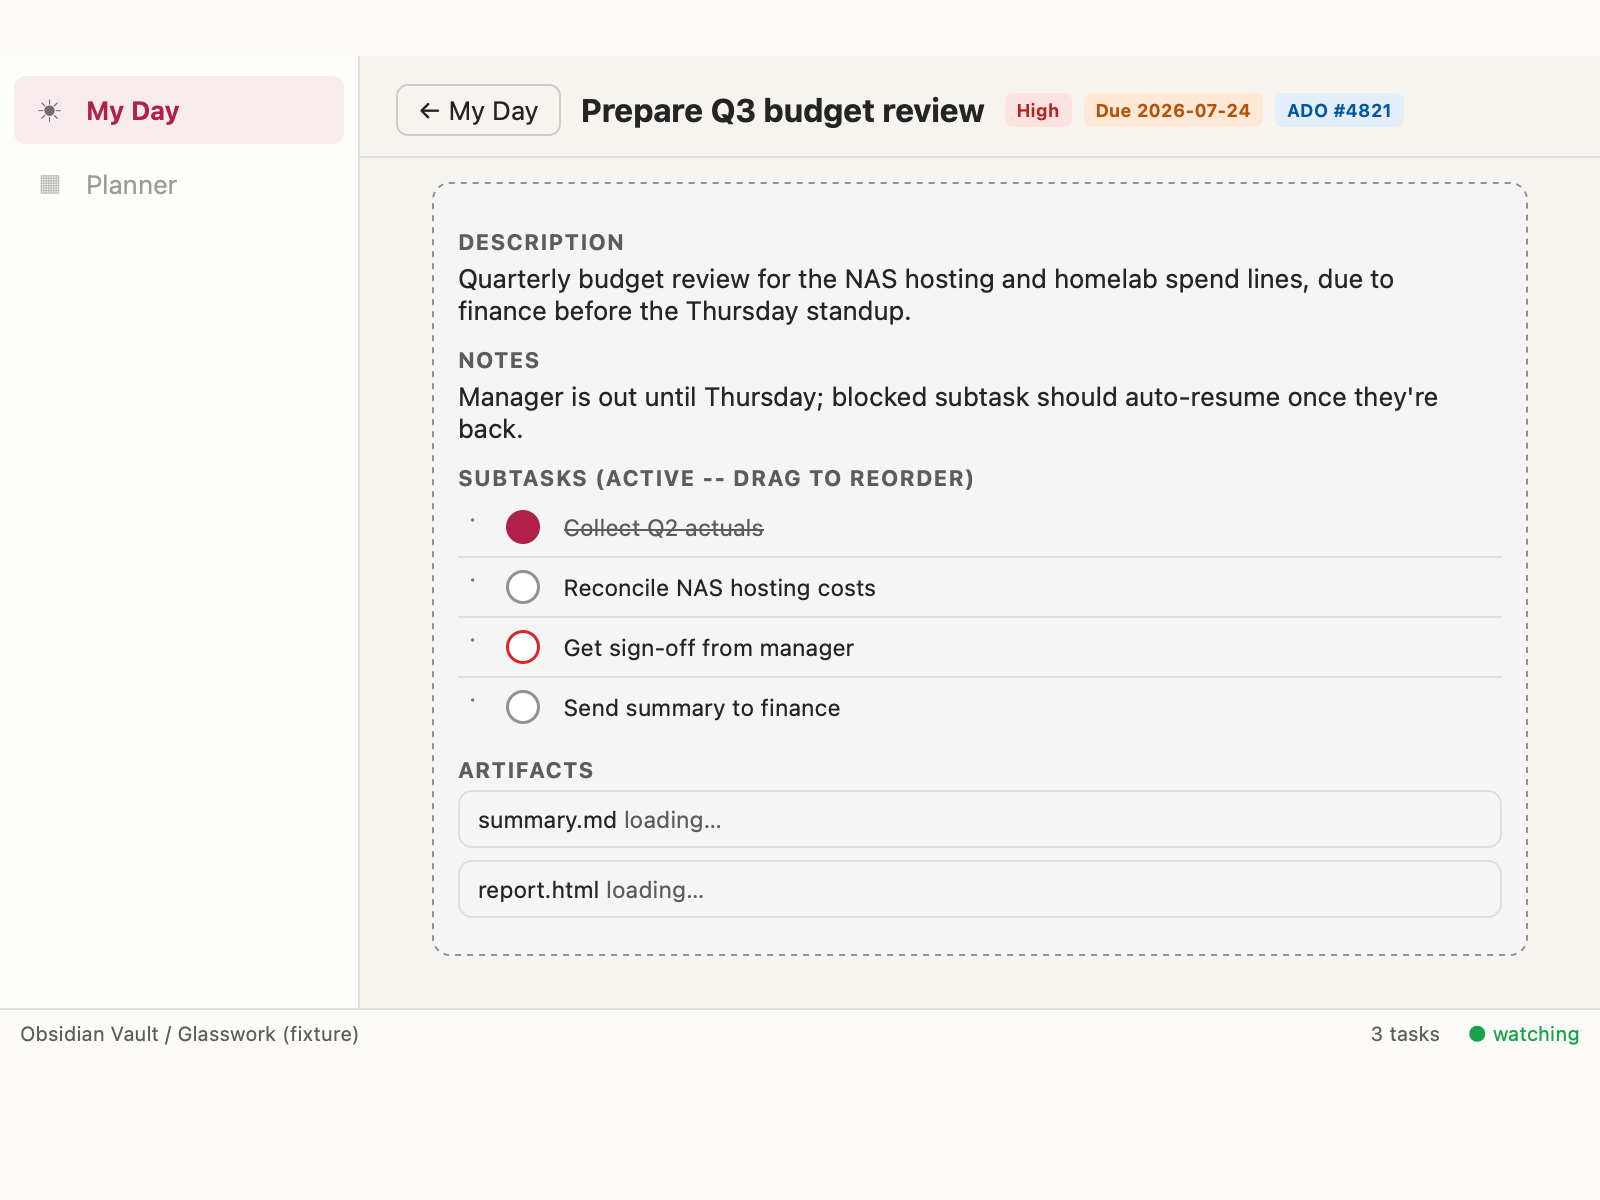
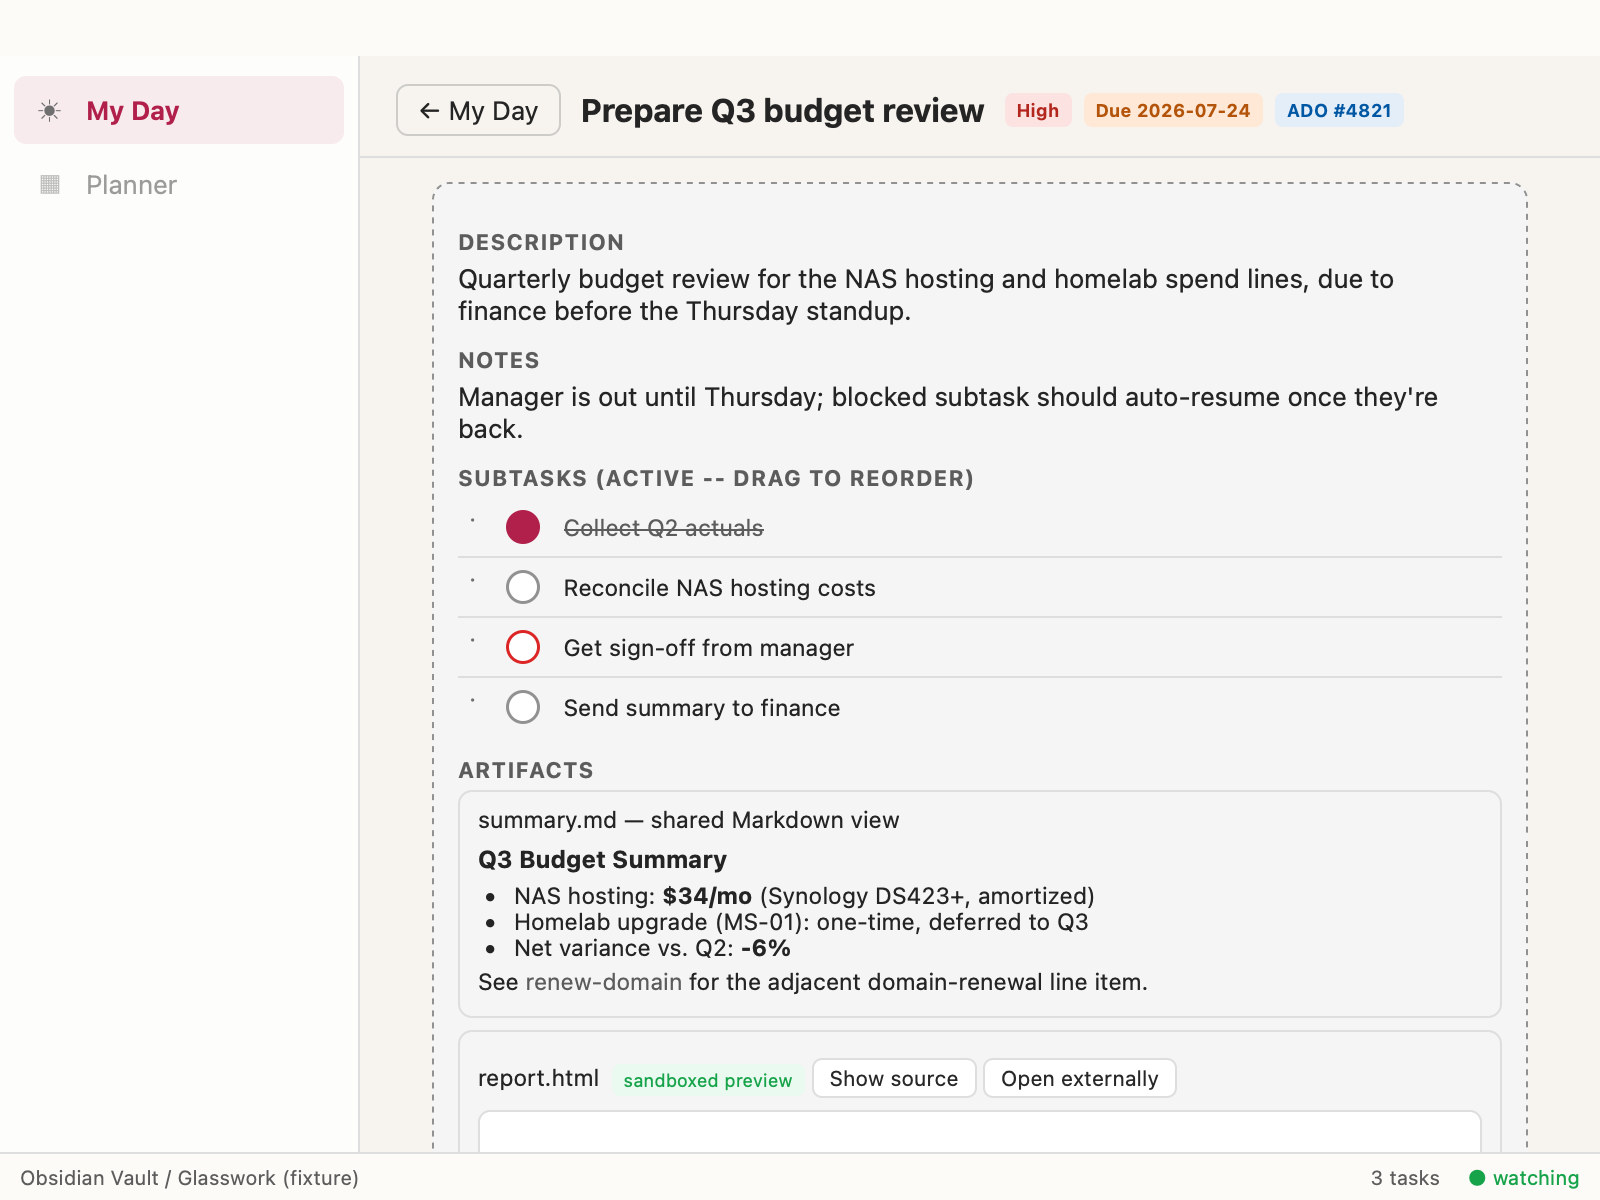
Fix third-round review findings on the Tauri spike (#372)
Round 3 confirmed all 12 prior findings fixed and found three more.

- **"Open externally" opened the wrong file.** The Artifact row's button
  destructured the filename out of its payload and then discarded it,
  invoking the launcher with only the task id -- so it deep-linked to the
  parent task rather than the Artifact. The bounded Core already supported
  Artifact paths (core/tests/obsidian_uri.rs proves the URI builder keeps
  non-.md extensions); only the IPC layer was throwing the information away.
  open_in_obsidian now takes a Vault-relative path, and the frontend passes
  `<task>.artifacts/<file>`. Widening that input makes the Vault-escape check
  load-bearing, so it gets its own test:
  refuses_an_artifact_path_that_escapes_the_vault_via_traversal.

- **README understated the Rust test count** (20, actually 27).

- **The stale recording was disclosed only in a footnote.** It predates the
  three-Page-shell correction and still shows Task Detail as an inline
  expansion, so it is now listed as an explicit outstanding item in the
  Status checklist alongside the native-chrome screenshots -- both are HITL
  captures needing an awake, unlocked display.

Also: the Task Detail screenshot was catching artifacts mid-load
("loading..."), which is exactly the first-paint-vs-fully-rendered
distinction the round-2 latency fix was about. The screenshot driver now
waits for artifact settle before capturing.
[…]

diff --git a/docs/prototypes/tauri-core-spike/src/main.js b/docs/prototypes/tauri-core-spike/src/main.js
@@ -341,8 +341,10 @@ document.getElementById("main-content").addEventListener("click", async (e) => {
   }
   const openExternally = e.target.closest("[data-open-externally]");
   if (openExternally) {
+    // Open the Artifact itself, not its parent task: the payload is already
+    // `<taskId>/<filename>`, which maps to the Vault-relative Artifact path.
     const [taskId, filename] = openExternally.dataset.openExternally.split("/");
-    invoke("open_in_obsidian", { taskId }); // spike scope: file-level open, see #372 notes
+    invoke("open_in_obsidian", { vaultRelativePath: `${taskId}.artifacts/${filename}` });
     return;
   }
   const extLink = e.target.closest("a.ext-link");
@@ -350,7 +352,7 @@ document.getElementById("main-content").addEventListener("click", async (e) => {
     e.preventDefault();
     // ArtifactLinkPolicy-equivalent: allowed scheme, but still routed through
     // the native opener rather than an in-app navigation.
-    invoke("open_in_obsidian", { taskId: state.expandedTaskId });
+    invoke("open_in_obsidian", { vaultRelativePath: `${state.selectedTaskId}.md` });
   }
 });
 

diff --git a/docs/prototypes/tauri-core-spike/test/specs/screenshot-drive.spec.js b/docs/prototypes/tauri-core-spike/test/specs/screenshot-drive.spec.js
@@ -21,6 +21,12 @@ describe("screenshot drive", () => {
 
     if (targetState === "task-detail-blocked") {
       await $("[data-open-task='budget-q3-review']").click();
+      // Wait for artifact loads to settle so the capture shows the finished
+      // Task Detail rather than "loading…" placeholders.
+      await browser.waitUntil(
+        async () => await browser.execute(() => typeof window.__lastInteractionLatencyMs === "number"),
+        { timeout: 10000, timeoutMsg: "Task Detail never finished rendering its artifacts" }
+      );
     }
 
     if (targetState === "html-preview") {

diff --git a/docs/prototypes/tauri-core-spike/src-tauri/src/lib.rs b/docs/prototypes/tauri-core-spike/src-tauri/src/lib.rs
@@ -123,28 +123,39 @@ fn read_artifact(state: State<AppState>, task_id: String, filename: String) -> R
 /// into Obsidian via `obsidian://open?vault=...&file=...`, mirroring
 /// production's `ObsidianUriBuilder.ForVaultRelativePath`.
 ///
+/// Takes a **Vault-relative path**, not a task id, so it can open an Artifact
+/// (`<task>.artifacts/<file>`) as well as a task file. An earlier version
+/// took only the task id, which meant the Artifact row's "Open externally"
+/// button silently opened the parent task instead of the Artifact.
+///
 /// There is deliberately **no** default-handler fallback. ADR 0006 rejects
 /// handing raw Vault files to whatever the OS has registered — that can open
 /// an arbitrary editor against the user's real notes, which is a data-loss
 /// risk, and it silently masks a broken deep link instead of surfacing it.
-/// If a well-formed `obsidian://` URI can't be built, this fails loudly and
-/// the UI says so.
+/// If a well-formed `obsidian://` URI can't be built — including when the
+/// path escapes the Vault root — this fails loudly and the UI says so.
 #[tauri::command]
-fn open_in_obsidian(state: State<AppState>, task_id: String, app: tauri::AppHandle) -> Result<(), String> {
+fn open_in_obsidian(
+    state: State<AppState>,
+    vault_relative_path: String,
+    app: tauri::AppHandle,
+) -> Result<(), String> {
     let vault_root = state
         .vault_dir
         .canonicalize()
         .unwrap_or_else(|_| state.vault_dir.clone());
-    let vault_relative = format!("{task_id}.md");
 
-    let uri = obsidian_uri::for_vault_relative_path(&vault_root.to_string_lossy(), &vault_relative)
-        .ok_or_else(|| {
-            format!(
-                "Could not build an obsidian:// deep link for '{vault_relative}' \
-                 (it does not resolve inside the Vault root). Refusing to fall back to \
-                 the OS default handler -- see ADR 0006."
-            )
-        })?;
+    let uri = obsidian_uri::for_vault_relative_path(
+        &vault_root.to_string_lossy(),
+        &vault_relative_path,
+    )
+    .ok_or_else(|| {
+        format!(
+            "Could not build an obsidian:// deep link for '{vault_relative_path}' \
+             (it does not resolve inside the Vault root). Refusing to fall back to \
+             the OS default handler -- see ADR 0006."
+        )
+    })?;
 
     app.opener().open_url(uri, None::<String>).map_err(|e| e.to_string())
 }

diff --git a/docs/prototypes/tauri-core-spike/core/tests/obsidian_uri.rs b/docs/prototypes/tauri-core-spike/core/tests/obsidian_uri.rs
@@ -35,3 +35,19 @@ fn rejects_paths_that_escape_the_vault_root() {
     let uri = for_vault_relative_path("/Users/tj/vaults/fixture-vault", "../../etc/passwd");
     assert_eq!(uri, None);
 }
+
+#[test]
+fn refuses_an_artifact_path_that_escapes_the_vault_via_traversal() {
+    // The IPC layer now passes a caller-supplied Vault-relative path (so the
+    // Artifact row's "Open externally" can target the Artifact rather than its
+    // parent task). That widens the input, so the escape check matters more:
+    // a traversal must yield None and make the command fail loudly rather than
+    // deep-linking outside the Vault.
+    assert_eq!(
+        for_vault_relative_path(
+            "/vault/fixture-vault",
+            "budget-q3-review.artifacts/../../../etc/passwd"
+        ),
+        None
+    );
+}

diff --git a/docs/prototypes/tauri-core-spike/README.md b/docs/prototypes/tauri-core-spike/README.md
@@ -27,13 +27,20 @@ Do not close #372 or append the #369 decision pointer until all of the
 following exist:
 
 - [x] macOS: full slice built and gate-checked
-- [x] macOS: automated tests passing (37 total — 26 Rust Core, 11 WebDriverIO)
+- [x] macOS: automated tests passing (40 total — 27 Rust Core, 13 WebDriverIO)
 - [x] macOS: HITL evidence artifacts prepared (screenshots + recording) for
       TJ to review
 - [ ] macOS: measured evidence is **incomplete** — 3 of 8 metrics fully meet
       their locked procedure, 1 is measured with an interpretation note, and
       4 have real gaps. See "Measured evidence" below; nothing here is ready
       for the calculator.
+- [ ] macOS: the drag-reorder / file-watch **recording is stale** — it
+      predates the three-Page-shell correction and still shows Task Detail as
+      an inline expansion. It needs re-recording (a HITL capture: the display
+      must be awake and unlocked), together with the metric-5 file-watch
+      timing it should carry. See "Recording evidence" below.
+- [ ] macOS: native-chrome screenshots need a HITL re-capture — see
+      "Screenshot evidence" below.
 - [ ] macOS: TJ's hands-on visual/interaction ratings (4 sub-criteria,
       scorecard Phase 1, rated alongside the other two spikes once they exist)
 - [ ] macOS: live VoiceOver pass (Gate 4 + metric 6) — **automation proved
@@ -97,7 +104,7 @@ down:
   with vault-escape rejection, and HTML/Markdown artifact-kind
   classification + sandboxed-HTML CSP policy. It is **not** a port of the
   whole product — no Planner, no backlinks, no UI state, no full task
-  catalog beyond the fixed fixture. 26 passing tests (`cargo test --release`,
+  catalog beyond the fixed fixture. 27 passing tests (`cargo test --release`,
   see `evidence/automated-ui-test-log.txt`).
 - **Tauri 2 shell** (`src-tauri/`) — thin IPC layer exposing the Core's
   operations to the frontend (`src-tauri/src/lib.rs`, 224 LOC), plus
@@ -133,7 +140,7 @@ build:
 | 2 | Genuine HTML sandbox | **PASS**, now on direct evidence for *both* probes — `evidence/html-sandbox-verification.json` records a local canary server seeing 1 control request (proving the detector works) and **0** requests from the sandboxed artifact, alongside an unmutated parent title and unset parent flag. Corroborated by `tests/artifact_sandbox.rs` and `sandbox-verify.spec.js`. |
 | 3 | Native file/Obsidian launching | **NOT YET VERIFIED on either OS.** The scorecard's acceptance script is "trigger it once per OS; both must open the correct file in the correct external application" — that is an observed native launch, which has not been done. What exists is unit coverage of the URI builder (`core/tests/obsidian_uri.rs`, including a real compound-extension bug found and fixed) and the removal of the ADR 0006-rejected default-handler fallback. An earlier revision of this README marked macOS PASS on that basis; that was an overstatement and is retracted. Needs a HITL launch check on both macOS and Windows. |
 | 4 | Accessibility reachability | **NOT YET CONFIRMED.** Keyboard-focus reachability for every zone (including the reserved Planner entry, which uses `aria-disabled` precisely so it stays focusable) is exercised by the automated specs, but the spoken-announcement half needs a human running VoiceOver. **Windows/Narrator: NOT YET RUN.** |
-| 5 | A real automated test passes | **PASS** — 37 tests total (26 Rust Core, 11 WebDriverIO), each WebDriverIO spec exercising a real fixture interaction rather than an app-launch smoke test. |
+| 5 | A real automated test passes | **PASS** — 40 tests total (27 Rust Core, 13 WebDriverIO), each WebDriverIO spec exercising a real fixture interaction rather than an app-launch smoke test. |
 | 6 | No crash or hang | **PASS** on macOS across all evidence-capture sessions; no crash or >10s unresponsive period observed. **Windows: NOT YET RUN.** |
 
 **Gates 3, 4 and 6 are not PASS.** Gate 3 needs an observed native Obsidian
@@ -418,7 +425,7 @@ none is available; keep this ticket open and report the gap.
 ```bash
 cd docs/prototypes/tauri-core-spike
 npm install
-cargo test --release                       # bounded Rust Core: 20 tests
+cargo test --release                       # bounded Rust Core: 27 tests
 npx tauri build --no-bundle                 # release build (never raw cargo build --release)
 npx wdio run test/wdio.conf.js --spec test/specs/vertical-slice.spec.js
 npx wdio run test/wdio.conf.js --spec test/specs/untrusted-content.spec.js
